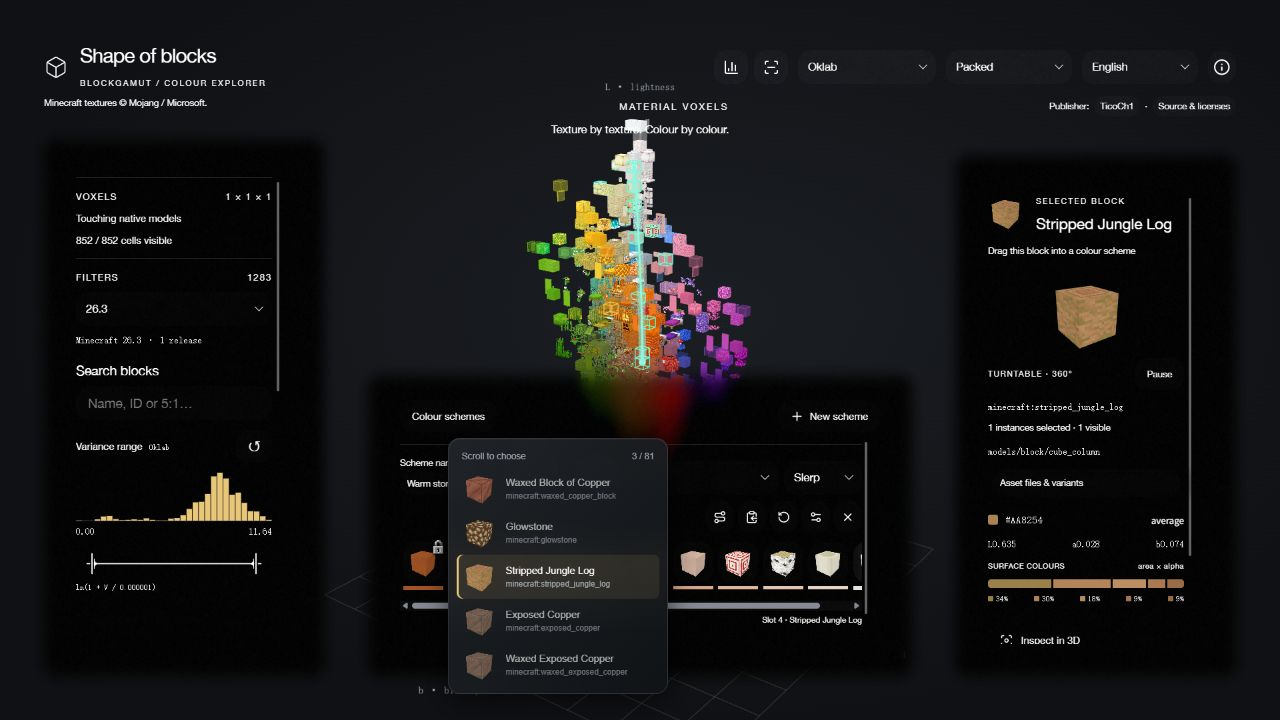
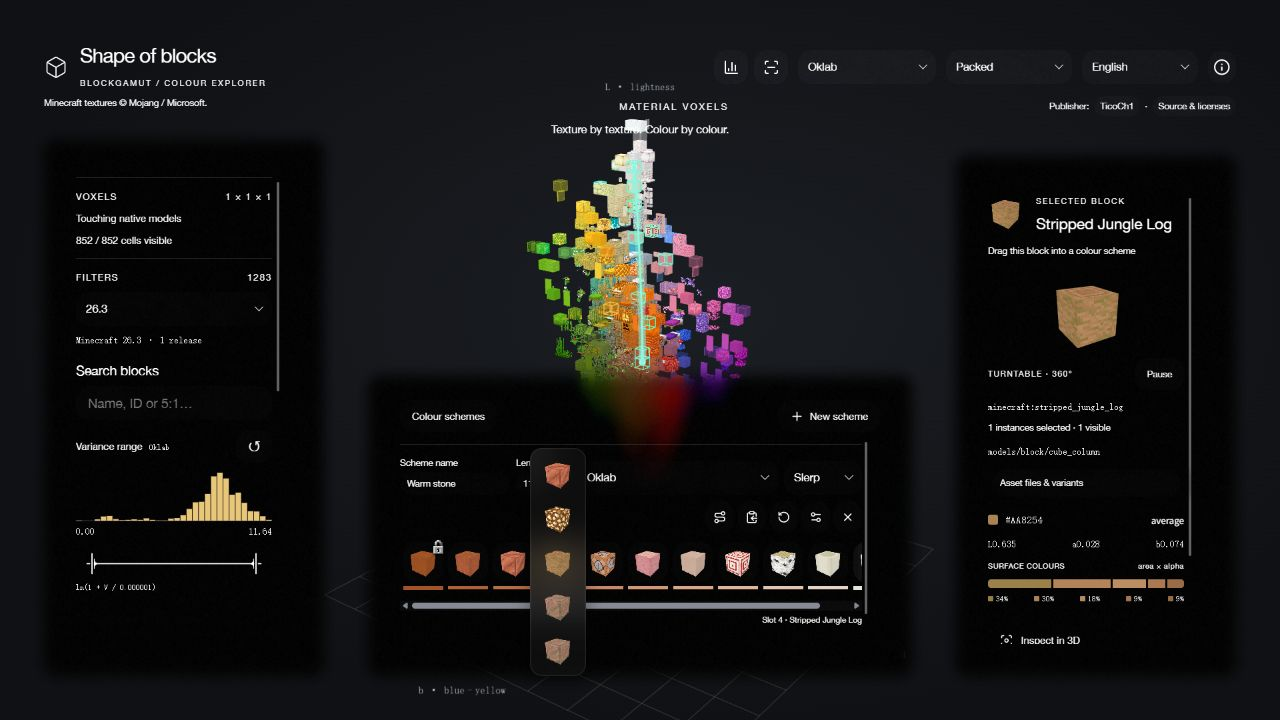
Simplify wheel glass preview and reuse inspector WebGL context

Changed region(s): [[0.3438, 0.6111, 0.5312, 0.9472]]

diff --git a/src/SchemeWheel.tsx b/src/SchemeWheel.tsx
@@ -8,39 +8,53 @@ import type {ModelResources} from './useModels';
 import type {Scheme} from './ColourSchemes';
 import {schemeCells} from './schemes.mjs';
 
-type Preview={blocks:(Block|null)[];left:number;top:number;position:number;total:number};
+type Preview={blocks:(Block|null)[];left:number;top:number};
 export function useSchemeWheel({scheme,cells,blocks,collection,blacklist,onChoose}: {scheme:Scheme;cells:ReturnType<typeof schemeCells>;blocks:Block[];collection:string[];blacklist:string[];onChoose:(index:number,id:string)=>void}){
  const root=useRef<HTMLDivElement>(null),latest=useRef({scheme,cells,blocks,collection,blacklist,onChoose});
  latest.current={scheme,cells,blocks,collection,blacklist,onChoose};
  const [preview,setPreview]=useState<Preview|null>(null);
+ const dismiss=useRef(()=>{});
  useEffect(()=>{
   const row=root.current!,desktop=window.matchMedia('(min-width:761px) and (hover:hover) and (pointer:fine)');
-  let timer:ReturnType<typeof setTimeout>,lastStep=0,active:HTMLElement|null=null,cache:{key:string;blocks:Block[];catalog:Block[];collection:string[];blacklist:string[]}|null=null;
-  const close=()=>{clearTimeout(timer);setPreview(null);active=null;cache=null;lastStep=0;};
+  let lastStep=0,active:HTMLElement|null=null,cache:{key:string;blocks:Block[];catalog:Block[];collection:string[];blacklist:string[]}|null=null;
+  const close=()=>{setPreview(null);active=null;cache=null;lastStep=0;};
+  dismiss.current=close;
+  const candidates=(target:HTMLElement)=>{
+   const state=latest.current,index=Number(target.dataset.schemeSlot),cell=state.cells[index];
+   if(cell.anchor||!cell.block||!state.cells[index-1]?.block||!state.cells[index+1]?.block)return null;
+   const key=JSON.stringify([index,state.scheme.space,state.scheme.interpolation,state.scheme.filters,state.cells.filter(c=>c.index!==index).map(c=>c.id||c.block?.id)]);
+   if(!cache||cache.key!==key||cache.catalog!==state.blocks||cache.collection!==state.collection||cache.blacklist!==state.blacklist)cache={key,blocks:schemeWheelCandidates(state.scheme,index,state.blocks,{collection:state.collection,blacklist:state.blacklist},state.cells),catalog:state.blocks,collection:state.collection,blacklist:state.blacklist};
+   return cache.blocks.length?{state,index,cell,blocks:cache.blocks}:null;
+  };
+  const reveal=(target:HTMLElement,chosen:Block,blocks:Block[])=>{
+   active=target;
+   const position=blocks.findIndex(b=>b.id===chosen.id),rect=target.querySelector('button')!.getBoundingClientRect();
+   setPreview({blocks:Array.from({length:5},(_,i)=>i===2?chosen:blocks[position+i-2]||null),left:Math.max(8,Math.min(innerWidth-64,rect.left+rect.width/2-28)),top:Math.max(8,Math.min(innerHeight-236,rect.top+rect.height/2-114))});
+  };
+  const hover=(event:PointerEvent)=>{
+   if(!desktop.matches||event.pointerType==='touch')return;
+   const target=(event.target as Element).closest<HTMLElement>('.scheme-cell');
+   if(target===active)return;
+   const options=target&&candidates(target);
+   if(options)reveal(target!,options.cell.block,options.blocks);else close();
+  };
   const wheel=(event:WheelEvent)=>{
    if(!desktop.matches||event.ctrlKey||!event.deltaY||Math.abs(event.deltaX)>Math.abs(event.deltaY))return;
    const target=(event.target as Element).closest<HTMLElement>('.scheme-cell');if(!target)return;
-   const state=latest.current,index=Number(target.dataset.schemeSlot),cell=state.cells[index];
-   if(cell.anchor||!cell.block||!state.cells[index-1]?.block||!state.cells[index+1]?.block)return;
-   const key=JSON.stringify([index,state.scheme.space,state.scheme.interpolation,state.scheme.filters,state.cells.filter(c=>c.index!==index).map(c=>c.id||c.block?.id)]);
-   if(!cache||cache.key!==key||cache.catalog!==state.blocks||cache.collection!==state.collection||cache.blacklist!==state.blacklist)cache={key,blocks:schemeWheelCandidates(state.scheme,index,state.blocks,{collection:state.collection,blacklist:state.blacklist},state.cells),catalog:state.blocks,collection:state.collection,blacklist:state.blacklist};
-   if(!cache.blocks.length)return;
+   const options=candidates(target);if(!options)return;
+   const {state,index,cell,blocks}=options;
    event.preventDefault();event.stopPropagation();
    // A mouse detent responds immediately; trackpad bursts advance at most every 80ms.
    const now=performance.now();let chosen=cell.block;
-   if(active!==target||now-lastStep>=80){chosen=stepSchemeWheel(cache.blocks,cell.block.id,event.deltaY>0?1:-1)!;lastStep=now;if(chosen.id!==cell.block.id)state.onChoose(index,chosen.id);}
-   active=target;
-   const position=cache.blocks.findIndex(b=>b.id===chosen.id),rect=target.getBoundingClientRect();
-   setPreview({blocks:Array.from({length:5},(_,i)=>cache!.blocks[position+i-2]||null),position:position+1,total:cache.blocks.length,left:Math.max(8,Math.min(innerWidth-228,rect.left+rect.width/2-110)),top:Math.max(8,Math.min(innerHeight-264,rect.top+rect.height/2-128))});
-   clearTimeout(timer);timer=setTimeout(close,1200);
+   if(active!==target||now-lastStep>=80){chosen=stepSchemeWheel(blocks,cell.block.id,event.deltaY>0?1:-1)!;lastStep=now;if(chosen.id!==cell.block.id)state.onChoose(index,chosen.id);}
+   reveal(target,chosen,blocks);
   };
-  const leave=(event:PointerEvent)=>{if(active&&(event.target as Element).closest('.scheme-cell')!==active)close();};
-  row.addEventListener('wheel',wheel,{passive:false});row.addEventListener('pointermove',leave);row.addEventListener('pointerleave',close);row.addEventListener('pointerdown',close);row.addEventListener('scroll',close,true);desktop.addEventListener('change',close);
+  row.addEventListener('wheel',wheel,{passive:false});row.addEventListener('pointerover',hover);row.addEventListener('pointermove',hover);row.addEventListener('pointerleave',close);row.addEventListener('pointerdown',close);row.addEventListener('scroll',close,true);desktop.addEventListener('change',close);
   window.addEventListener('resize',close);window.addEventListener('blur',close);
-  return()=>{clearTimeout(timer);row.removeEventListener('wheel',wheel);row.removeEventListener('pointermove',leave);row.removeEventListener('pointerleave',close);row.removeEventListener('pointerdown',close);row.removeEventListener('scroll',close,true);desktop.removeEventListener('change',close);window.removeEventListener('resize',close);window.removeEventListener('blur',close);};
+  return()=>{row.removeEventListener('wheel',wheel);row.removeEventListener('pointerover',hover);row.removeEventListener('pointermove',hover);row.removeEventListener('pointerleave',close);row.removeEventListener('pointerdown',close);row.removeEventListener('scroll',close,true);desktop.removeEventListener('change',close);window.removeEventListener('resize',close);window.removeEventListener('blur',close);};
  },[]);
  // A pin, resize or filter edit ends the old preview; a wheel tile edit keeps it alive.
- useEffect(()=>setPreview(null),[scheme.anchors,scheme.length,scheme.space,scheme.interpolation,scheme.filters,blocks,collection,blacklist]);
+ useEffect(()=>dismiss.current(),[scheme.anchors,scheme.length,scheme.space,scheme.interpolation,scheme.filters,blocks,collection,blacklist]);
  return {root,preview};
 }
 
@@ -48,9 +62,8 @@ export function SchemeWheelPreview({preview,resources}:{preview:Preview|null;res
  const {t,blockName}=useLocale();
  if(!preview)return null;
  return createPortal(<div className="scheme-wheel-preview" role="status" aria-label={t('Scroll block candidates')} style={{left:preview.left,top:preview.top}}>
-  <div className="scheme-wheel-heading">{t('Scroll to choose')}<span>{preview.position} / {preview.total}</span></div>
-  {preview.blocks.map((block,i)=><div key={i} className="scheme-wheel-candidate" data-current={i===2} data-block-id={block?.id||''} aria-hidden={i!==2}>
-   {block?<><BlockThumbnail id={block.id} resources={resources}/><span>{blockName(block.id,block.name)}<small>{block.id}</small></span></>:<span className="scheme-wheel-limit">—</span>}
+  {preview.blocks.map((block,i)=><div key={i} className="scheme-wheel-candidate" data-current={i===2} data-block-id={block?.id||''} role="img" aria-label={block?blockName(block.id,block.name):undefined} aria-hidden={i!==2}>
+   {block&&<BlockThumbnail id={block.id} resources={resources}/>}
   </div>)}
  </div>,document.body);
 }

diff --git a/src/Turntable.tsx b/src/Turntable.tsx
@@ -4,21 +4,33 @@ import * as T from 'three';
 import {GlassButton} from '@form-glass/react';
 import {nativeModel} from './modelRender';
 import type {ModelResources} from './useModels';
+interface PreviewState {renderer:T.WebGLRenderer;scene:T.Scene;camera:T.PerspectiveCamera;mesh:T.Mesh<T.BufferGeometry,T.MeshBasicMaterial>|null;radius:number;animated:boolean;dirty:boolean;fireFrame:number;fit:()=>void}
 export function Turntable({id,name,resources}:{id:string;name:string;resources:ModelResources|null}){
  const {view,t,locale}=useLocale();
  const host=useRef<HTMLDivElement>(null),[paused,setPaused]=useState(()=>matchMedia('(prefers-reduced-motion: reduce)').matches),[error,setError]=useState(false),pauseRef=useRef(paused);pauseRef.current=paused;
+ const state=useRef<PreviewState|null>(null),currentResources=useRef(resources);currentResources.current=resources;
+ // Keep one WebGL context for the mounted inspector, including wheel changes.
  useEffect(()=>{
-  const el=host.current,model=resources?.pack.models[id];if(!el||!resources||!model?.renderable)return;
+  const el=host.current!;
   let renderer:T.WebGLRenderer;try{renderer=new T.WebGLRenderer({alpha:true,antialias:true});}catch{setError(true);return;}
-  setError(false);renderer.setPixelRatio(Math.min(devicePixelRatio,2));renderer.outputColorSpace=T.SRGBColorSpace;el.append(renderer.domElement);renderer.domElement.setAttribute('aria-label',t(`${name} rotating model preview`));
-  const scene=new T.Scene(),camera=new T.PerspectiveCamera(32,1,.01,100),{geometry,material,animated}=nativeModel(resources,id);geometry.computeBoundingBox();
+  setError(false);renderer.setPixelRatio(Math.min(devicePixelRatio,2));renderer.outputColorSpace=T.SRGBColorSpace;el.append(renderer.domElement);
+  const scene=new T.Scene(),camera=new T.PerspectiveCamera(32,1,.01,100);
+  const s:PreviewState={renderer,scene,camera,mesh:null,radius:1,animated:false,dirty:true,fireFrame:-1,fit:()=>{}};state.current=s;
+  s.fit=()=>{const angle=Math.min(camera.fov*Math.PI/360,Math.atan(Math.tan(camera.fov*Math.PI/360)*camera.aspect));camera.position.set(0,s.radius*1.5,s.radius/Math.sin(angle)*1.08);camera.lookAt(0,0,0);s.dirty=true;};
+  const size=()=>{const w=el.clientWidth,h=el.clientHeight;renderer.setSize(w,h);camera.aspect=w/Math.max(1,h);camera.updateProjectionMatrix();s.fit();};
+  const resize=new ResizeObserver(size);resize.observe(el);size();
+  let frame=0,last=0;const tick=(now:number)=>{frame=requestAnimationFrame(tick);const dt=Math.min((now-last)/1000,.1);if(now-last<32)return;last=now;if(document.hidden)return;if(s.animated){const next=currentResources.current!.animate(now);if(next!==s.fireFrame){s.fireFrame=next;s.dirty=true;}}if(s.mesh&&!pauseRef.current){s.mesh.rotation.y+=dt*.5;s.dirty=true;}if(s.dirty){renderer.render(scene,camera);s.dirty=false;}};frame=requestAnimationFrame(tick);
+  return()=>{cancelAnimationFrame(frame);resize.disconnect();renderer.dispose();renderer.forceContextLoss();renderer.domElement.remove();state.current=null;};
+ },[]);
+ useEffect(()=>{
+  const s=state.current,model=resources?.pack.models[id];if(!s||!resources||!model?.renderable)return;
+  const {geometry,material,animated}=nativeModel(resources,id);geometry.computeBoundingBox();
   const bounds=geometry.boundingBox!,center=bounds.getCenter(new T.Vector3()),radius=bounds.getSize(new T.Vector3()).length()/2;
   geometry.translate(-center.x,-center.y,-center.z);
-  const mesh=new T.Mesh(geometry,material);scene.add(mesh);mesh.rotation.y=.5;
-  let dirty=true;const resize=new ResizeObserver(()=>{const w=el.clientWidth,h=el.clientHeight;renderer.setSize(w,h);camera.aspect=w/Math.max(1,h);camera.updateProjectionMatrix();const angle=Math.min(camera.fov*Math.PI/360,Math.atan(Math.tan(camera.fov*Math.PI/360)*camera.aspect));camera.position.set(0,radius*1.5,radius/Math.sin(angle)*1.08);camera.lookAt(0,0,0);dirty=true;});resize.observe(el);
-  let frame=0,last=0,fireFrame=-1;const tick=(now:number)=>{frame=requestAnimationFrame(tick);const dt=Math.min((now-last)/1000,.1);if(now-last<32)return;last=now;if(document.hidden)return;if(animated){const next=resources.animate(now);if(next!==fireFrame){fireFrame=next;dirty=true;}}if(!pauseRef.current){mesh.rotation.y+=dt*.5;dirty=true;}if(dirty){renderer.render(scene,camera);dirty=false;}};frame=requestAnimationFrame(tick);
-  return()=>{cancelAnimationFrame(frame);resize.disconnect();geometry.dispose();material.dispose();renderer.dispose();renderer.domElement.remove();};
- },[id,name,resources,locale]);
+  const mesh=new T.Mesh(geometry,material);s.scene.add(mesh);mesh.rotation.y=.5;s.mesh=mesh;s.radius=radius;s.animated=animated;s.fireFrame=-1;s.fit();
+  return()=>{mesh.removeFromParent();geometry.dispose();material.dispose();s.mesh=null;s.animated=false;s.dirty=true;};
+ },[id,resources]);
+ useEffect(()=>{state.current?.renderer.domElement.setAttribute('aria-label',t(`${name} rotating model preview`));},[name,locale]);
  const visible=resources?.pack.models[id]?.renderable;
  return view(<div className="turntable"><div className="turntable-viewport" ref={host}>{(!visible||error)&&<span>{error?'Preview unavailable':resources?'No visible surface':'Loading preview…'}</span>}</div><div className="turntable-caption"><span>TURNTABLE · 360°</span>{visible&&<GlassButton aria-label={paused?'Play turntable':'Pause turntable'} aria-pressed={!paused} onClick={()=>setPaused(v=>!v)}><LocaleLabel text={paused?'Play':'Pause'} alternatives={['Play','Pause']}/></GlassButton>}</div></div>);
 }

diff --git a/src/style.css b/src/style.css
@@ -91,8 +91,8 @@ html,body,#atlas,[data-form-glass-root]{height:100%;width:100%;margin:0}body{ove
 @media(max-width:760px){.header-actions .atlas-mode-control{width:30px;min-width:30px;height:34px;padding:7px}.atlas-mode-controls{gap:4px}.scheme-export-dialog{padding:24px!important}.scheme-export-actions{flex-wrap:wrap}}
 .atlas-controls{display:flex;align-items:center;gap:10px}.coordinate-control{width:138px}.arrangement-control{width:126px}.atlas-controls .glass-select{width:100%}
 .scene-header #notes-trigger{padding:6px 5px;min-width:28px}
-.scheme-wheel-preview{position:fixed;z-index:1000;width:220px;height:256px;padding:8px;border:1px solid #ffffff20;border-radius:12px;background:linear-gradient(135deg,#262b30c9,#111417e8);backdrop-filter:blur(18px);-webkit-backdrop-filter:blur(18px);box-shadow:0 8px 28px #0009,inset 0 1px #ffffff10;pointer-events:none;color:var(--fg,#fff);font-size:10px;box-sizing:border-box}
-.scheme-wheel-heading{height:20px;display:flex;justify-content:space-between;align-items:center;color:var(--muted);font-size:9px;padding:0 5px}.scheme-wheel-heading>span{font-variant-numeric:tabular-nums}.scheme-wheel-candidate{display:flex;align-items:center;gap:9px;height:44px;padding:4px 6px;box-sizing:border-box;border-radius:6px;opacity:.65}.scheme-wheel-candidate[data-current=true]{background:#e8c67a18;box-shadow:inset 2px 0 #e8c67a;opacity:1}.scheme-wheel-candidate canvas{width:34px;height:34px;flex:none;image-rendering:pixelated}.scheme-wheel-candidate>span{min-width:0;overflow:hidden;white-space:nowrap;text-overflow:ellipsis}.scheme-wheel-candidate small{display:block;font-size:8px;color:var(--muted);overflow:hidden;text-overflow:ellipsis;margin-top:3px}.scheme-wheel-limit{width:100%;text-align:center;color:#ffffff30}
+.scheme-wheel-preview{position:fixed;z-index:1000;width:56px;height:228px;padding:4px 0;border-radius:12px;background:#ffffff0a;backdrop-filter:blur(18px);-webkit-backdrop-filter:blur(18px);box-shadow:0 4px 18px #0006,inset 0 0 0 1px #ffffff14;pointer-events:none;box-sizing:border-box}
+.scheme-wheel-candidate{display:flex;align-items:center;justify-content:center;height:44px}.scheme-wheel-candidate canvas{width:32px;height:32px;image-rendering:pixelated}
 @media(max-width:760px){.scheme-wheel-preview{display:none}}
 @media(max-width:1000px) and (min-width:761px){.header-actions,.atlas-controls{gap:8px}.coordinate-control{width:112px}.arrangement-control{width:104px}.language-control{width:100px}}
 @media(max-width:760px){.scene-header{display:grid;grid-template-columns:minmax(0,1fr) 90px 28px;gap:10px 8px;align-items:center}.header-actions{display:contents}.brand{grid-column:1;grid-row:1}.language-control{grid-column:2;grid-row:1;width:90px}#notes-trigger{grid-column:3;grid-row:1}.atlas-controls{grid-column:1/-1;grid-row:2;gap:8px}.coordinate-control,.arrangement-control{width:0;flex:1;min-width:0}.project-notice{top:150px}.control-panel{top:206px}.block-inspector{bottom:180px}.explorer{--controls-height:max(60px,calc((100dvh - 608px) * .45));--inspector-height:max(60px,calc((100dvh - 608px) * .55))}}

diff --git a/src/ColourSchemes.tsx b/src/ColourSchemes.tsx
@@ -37,7 +37,7 @@ function SchemeRow({scheme,blocks,resources,collection,blacklist,onChange,onDele
   </div>
   <GlassScrollArea label="Scheme blocks" height={78} viewportClassName="scheme-cells-viewport"><div className="scheme-cells">
    {cells.map(cell=><div key={cell.index} className="scheme-cell" data-scheme-id={scheme.id} data-scheme-slot={cell.index} data-anchor={cell.anchor} data-selected={slot===cell.index} data-drop={hover===cell.index} onDragOver={e=>{if(e.dataTransfer.types.includes(schemeMime)||e.dataTransfer.types.includes('text/plain')){e.preventDefault();e.dataTransfer.dropEffect='copy';setHover(cell.index);}}} onDragLeave={()=>setHover(null)} onDrop={e=>{e.preventDefault();setHover(null);const id=e.dataTransfer.getData(schemeMime)||e.dataTransfer.getData('text/plain');if(blocks.some(b=>b.id===id))document.dispatchEvent(new CustomEvent('block-gamut-scheme-drop',{detail:{scheme:scheme.id,slot:cell.index,block:id}}));}}>
-    <DraggableBlock id={cell.id||cell.block?.id||''} name={cell.block?.name||cell.id||t('Empty slot')} source={{scheme:scheme.id,slot:cell.index}} className="scheme-block" onClick={()=>toggle(cell.index)}><GlassButton aria-label={`${t('Scheme slot')} ${cell.index+1}: ${cell.id||cell.block?.id||'minecraft:air'}`} aria-pressed={cell.anchor} title={cell.block?`${cell.block.name} · ${cell.block.id}\n${t('Click to pin or unpin')}`:cell.id?`${cell.id} · ${t('Unavailable in this release')}`:t('Drop a block here')} onClick={e=>{if(e.detail===0)toggle(cell.index);}}>{cell.block?<BlockThumbnail id={cell.block.id} resources={resources}/>:<span aria-hidden="true">+</span>}{cell.anchor&&<span className="scheme-pin" aria-hidden="true"/>}</GlassButton></DraggableBlock>
+    <DraggableBlock id={cell.id||cell.block?.id||''} name={cell.block?.name||cell.id||t('Empty slot')} source={{scheme:scheme.id,slot:cell.index}} className="scheme-block" onClick={()=>toggle(cell.index)}><GlassButton aria-label={`${t('Scheme slot')} ${cell.index+1}: ${cell.id||cell.block?.id||'minecraft:air'}`} aria-pressed={cell.anchor} title={wheel.preview&&cell.block?.id===wheel.preview.blocks[2]?.id?undefined:cell.block?`${cell.block.name} · ${cell.block.id}\n${t('Click to pin or unpin')}`:cell.id?`${cell.id} · ${t('Unavailable in this release')}`:t('Drop a block here')} onClick={e=>{if(e.detail===0)toggle(cell.index);}}>{cell.block?<BlockThumbnail id={cell.block.id} resources={resources}/>:<span aria-hidden="true">+</span>}{cell.anchor&&<span className="scheme-pin" aria-hidden="true"/>}</GlassButton></DraggableBlock>
     <span className="scheme-target" style={{background:cell.target||'transparent'}} title={cell.target||t('No control points')}/>
    </div>)}
   </div></GlassScrollArea>

diff --git a/README.md b/README.md
@@ -144,7 +144,7 @@ Use the row's **refresh arrow** to fill unpinned slots with the current colour s
 
 On desktop, hover a filled, unpinned interior slot and scroll **down for the next candidate, up for the previous**. Candidates must pass that scheme's filters and remain unused elsewhere in the row. Their colour-space projection onto the line joining the immediately previous and next visible blocks must lie between those endpoints. Alternatives are ordered by distance to the neighbours' **Lerp/Slerp midpoint**, using the scheme's own colour space. Only the hovered slot changes; its neighbours and pins stay put. The inspector, export and enabled highlight update with the chosen block.
 
-The first scroll immediately shows a secondary glass strip: **two previous candidates, the current block and two next candidates**, with names and original model thumbnails. It has no reveal or resize animation and reuses the candidate search while scrolling. At either end of the candidate list, scrolling stops and unavailable preview positions remain empty. The strip closes when the pointer leaves the slot or scrolling pauses. Pinned blocks, end slots, empty slots and slots missing a neighbour do not browse. This feature is disabled on mobile and touch-only devices; ordinary panel scrolling stays available there.
+Hovering immediately shows a narrow secondary glass strip centred on that slot: **two previous candidates, the current block and two next candidates**. It contains only model thumbnails; the middle block is selected without text, counters or a coloured highlight. It has no reveal or resize animation and reuses the candidate search while scrolling. At either end of the candidate list, scrolling stops and unavailable preview positions remain empty. The strip stays visible until the pointer leaves the slot. Pinned blocks, end slots, empty slots and slots missing a neighbour do not browse. This feature is disabled on mobile and touch-only devices; ordinary panel scrolling stays available there.
 
 ![Immediate vertical glass preview with two alternatives above and below the current scheme block](media/screenshots/59-scheme-wheel.jpg)
 
